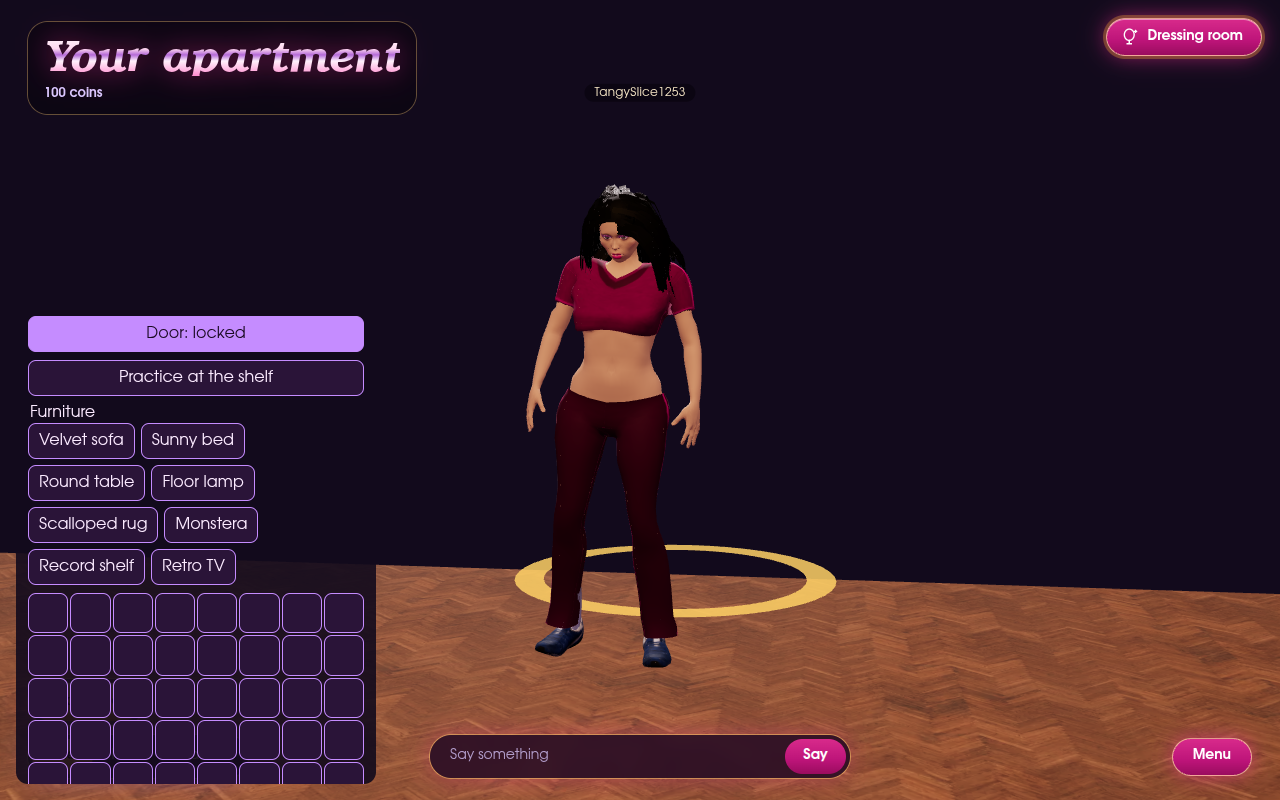
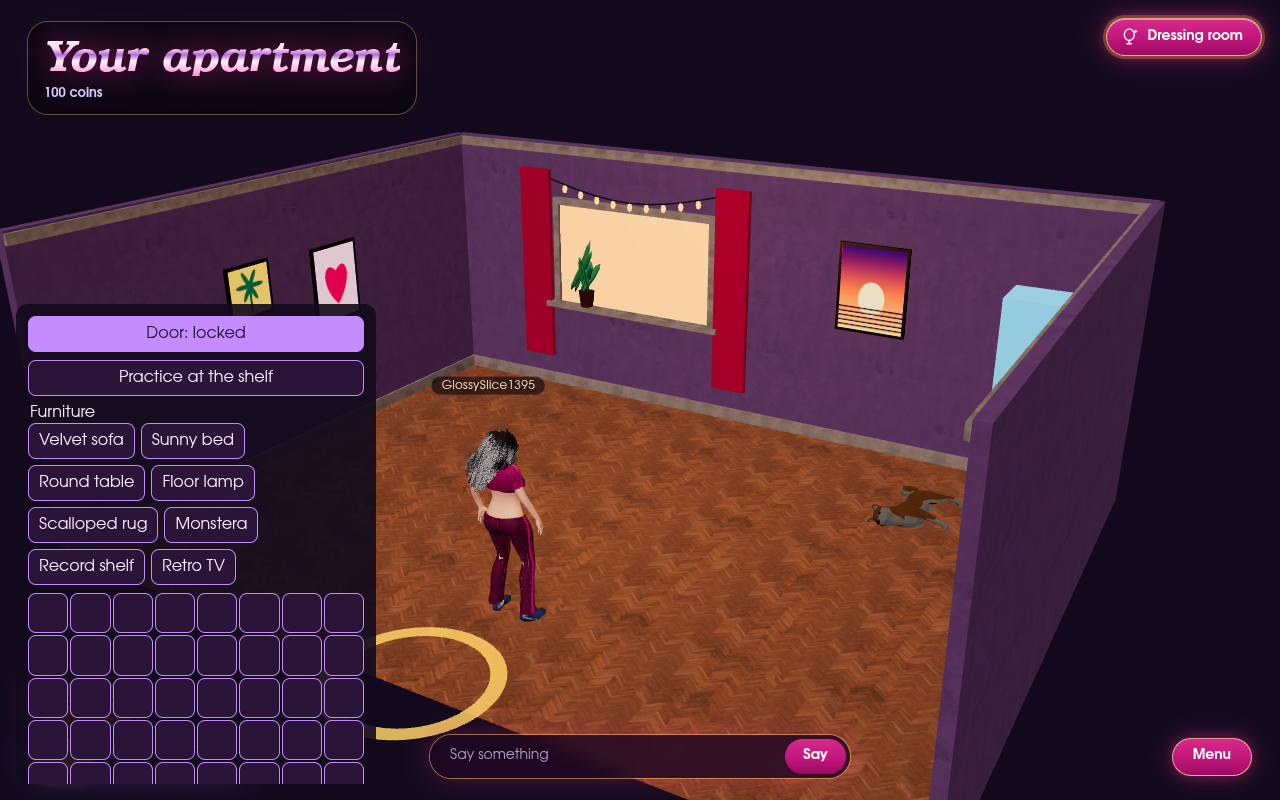
fix(pets): move the pet bed into view; re-shoot pet-home

diff --git a/src/client/creatures/PetFollower.tsx b/src/client/creatures/PetFollower.tsx
@@ -20,7 +20,7 @@ import type { Player } from "../world/PlayerController.tsx";
 import { Creature, type CreaturePose } from "./Creature.tsx";
 
 /** Where the pet's bed is in the apartment. */
-export const PET_BED: Vec2 = [-3.3, -2.3];
+export const PET_BED: Vec2 = [2.8, -1.6];
 
 export function PetFollower({
   pet,
